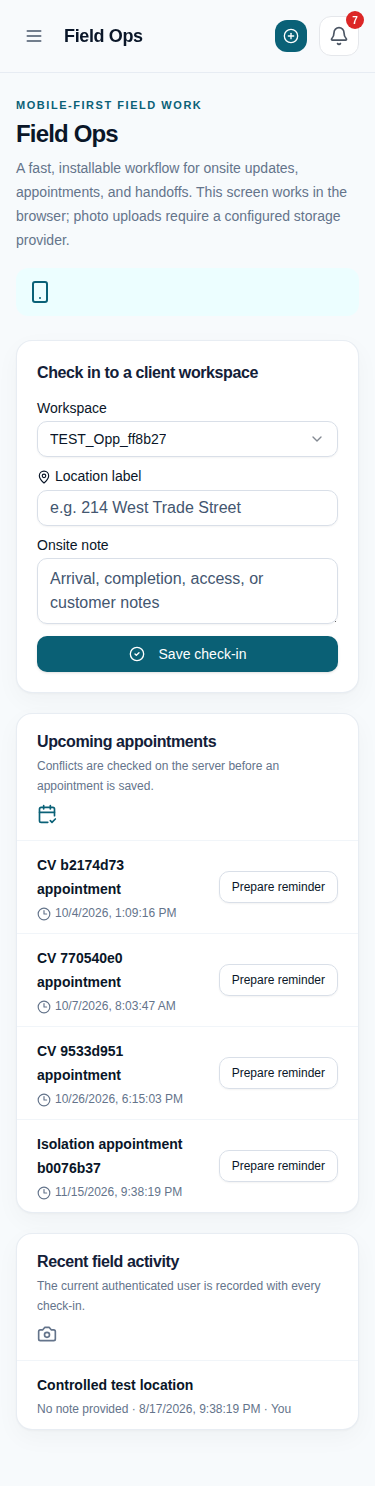
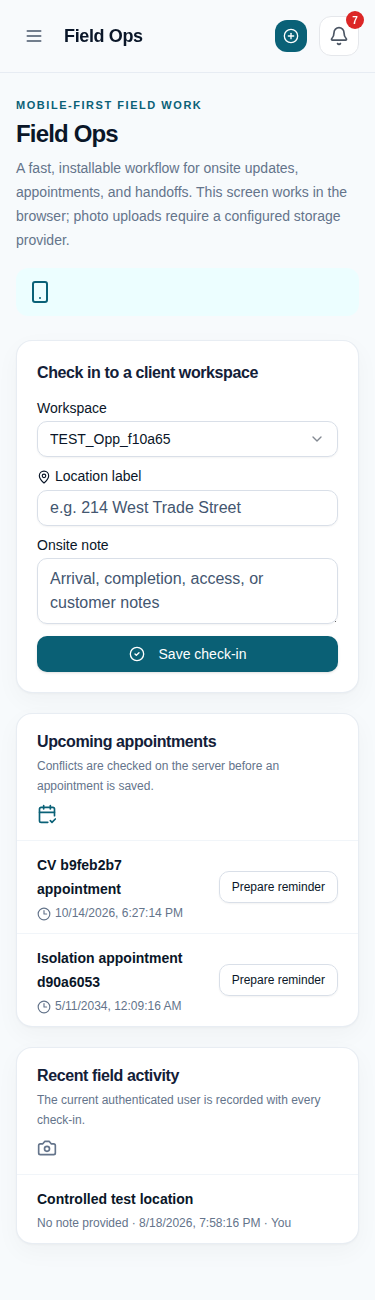
record final full-stack validation

diff --git a/backend/tests/test_role_permissions.py b/backend/tests/test_role_permissions.py
@@ -66,7 +66,13 @@ def test_admin_can_perform_governance_actions():
     ws = requests.get(f"{API}/workspaces", headers=a, timeout=15).json()[0]["id"]
     hooks = requests.get(f"{API}/webhooks", headers=a, timeout=15).json()
     assert all("secret" not in h for h in hooks), "list must not leak secrets"
-    wid = hooks[0]["id"]
+    created = requests.post(f"{API}/webhooks", headers=a, json={
+        "name": f"Governance verification {uuid.uuid4().hex[:8]}",
+        "url": "https://example.invalid/clientverse-governance",
+        "events": ["task.created"],
+    }, timeout=15)
+    assert created.status_code == 200, created.text
+    wid = created.json()["id"]
 
     assert requests.get(f"{API}/team/members", headers=a, timeout=15).status_code == 200
     assert requests.patch(f"{API}/mcp/server/kill", headers=a, json={"enabled": True}, timeout=15).status_code == 200

diff --git a/todo.md b/todo.md
@@ -55,6 +55,8 @@
 - [x] Harden runtime configuration, observability, operational safeguards, backup/recovery, and release documentation.
 - [x] Require production HTTPS origins, scheduler authentication, valid credential-encryption material, and no demo records at startup.
 - [x] Add baseline browser security headers and document production health checks, monitoring, backup, restore, and rollback controls.
-- [ ] Re-run full regression, accessibility, performance, tenant-security, browser, and production-readiness verification after implementation changes.
+- [x] Re-run full regression, accessibility, performance, tenant-security, browser, and production-readiness verification after implementation changes.
+- [x] Validate full backend regression (104 passed, 5 skipped), zero-warning frontend lint/build, authenticated browser smoke, and WCAG 2.2 AA axe assessment with zero violations.
+- [x] Complete a controlled 10-user, 60-second read-workflow performance assessment: 3,186 requests with 0 failures.
 - [ ] Complete Google, Gmail, Calendar, and Stripe lifecycle certification when owner-approved credentials and test authorization are available.
 - [ ] Deploy only the verified full-stack release to the approved permanent environment, then complete deployed production acceptance and owner handoff.
